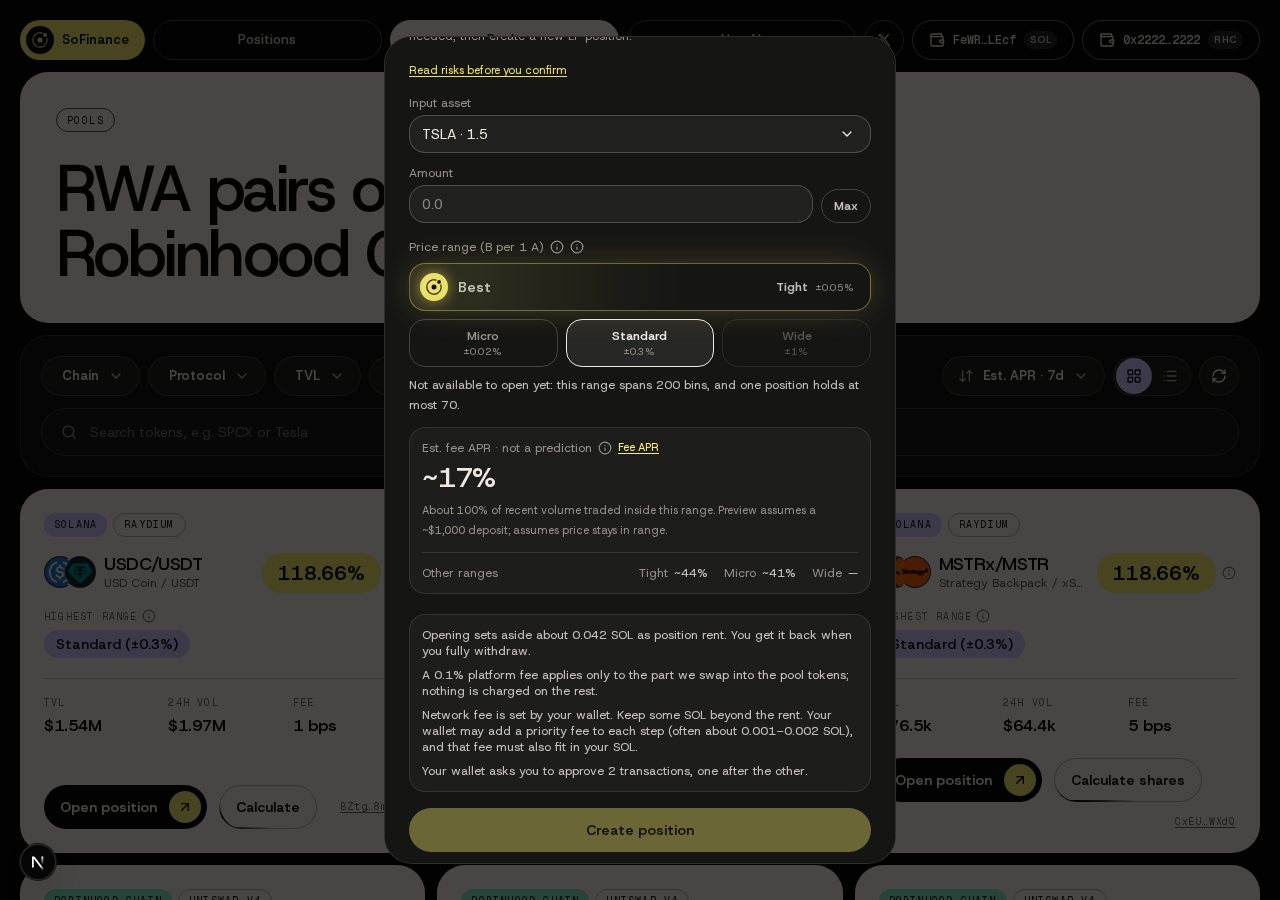
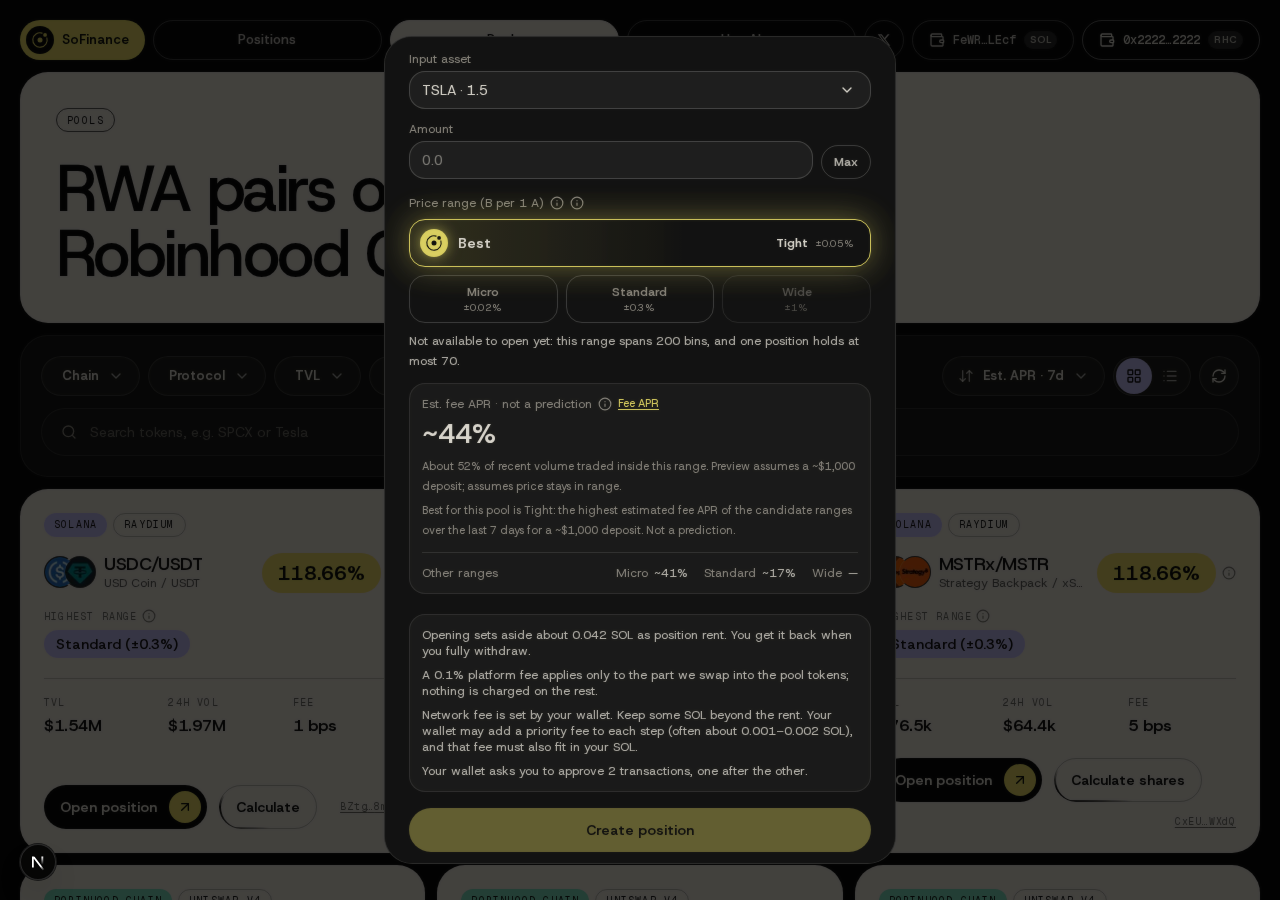
fix: open the Meteora dialog with Best selected
Default the registry form to the same Best range the picker ranks,
so Tight is selected here and the headline matches (~44%). If Best
is over the 70-bin cap or there is no APR, fall back to the first
enabled preset.

diff --git a/src/components/unified-pools/registry-open-modal.test.tsx b/src/components/unified-pools/registry-open-modal.test.tsx
@@ -14,7 +14,7 @@ const mocks = vi.hoisted(() => ({ runSteps: vi.fn(async () => null), tx: {} as R
 vi.mock("../wallet-connection", () => ({ useWalletConnection: () => ({ address: mocks.connected ? WALLET : undefined, connected: mocks.connected, connect: vi.fn(), signTransaction: vi.fn(), signAndSendTransaction: vi.fn() }) }));
 vi.mock("../transactions/use-tx-pipeline", () => ({ useTxPipeline: () => ({ status: "idle", locked: false, closeLocked: false, runSteps: mocks.runSteps, retry: vi.fn(), interrupted: null, dismissInterrupted: vi.fn(), ...mocks.tx }) }));
 
-import { APR_UNAVAILABLE, NO_RANGE_FITS_COPY, openInputs, presetOptions, RegistryOpenModal, NETWORK_FEE_COPY, SOL_REFUSED_COPY } from "./registry-open-modal";
+import { APR_UNAVAILABLE, NO_RANGE_FITS_COPY, openInputs, preferredOpenPresetId, presetOptions, RegistryOpenModal, NETWORK_FEE_COPY, SOL_REFUSED_COPY } from "./registry-open-modal";
 
 const descriptor = dexDescriptors.descriptorFor("meteora-dlmm")!;
 const pool = { key: "solana:met1", poolAddress: "met1", chain: "solana", protocol: "meteora-dlmm", pairLabel: "TSLAx/TSLA", symbolA: "TSLAx", symbolB: "TSLA",
@@ -50,6 +50,31 @@ describe("presetOptions / openInputs", () => {
   it("never offers native SOL as an input", () => {
     const tokens = openInputs({ ...pool, mintB: NATIVE_SOL_MINT, symbolB: "SOL" }, descriptor, { a: 8, b: 9 });
     expect(tokens.map((item) => item.id)).toEqual(["mintA", USDC_MINT]);
+  });
+});
+
+const allRanges = [
+  { id: "micro" as const, lowerUnit: -2, upperUnit: 1, units: 4, priceLower: 0.99, priceUpper: 1.01 },
+  { id: "tight" as const, lowerUnit: -6, upperUnit: 5, units: 12, priceLower: 0.97, priceUpper: 1.03 },
+  { id: "standard" as const, lowerUnit: -30, upperUnit: 29, units: 60, priceLower: 0.9, priceUpper: 1.1 },
+  { id: "wide" as const, lowerUnit: -100, upperUnit: 99, units: 200, priceLower: 0.5, priceUpper: 1.5 },
+];
+const RANKED_TICKS = { micro: [-20, 20], tight: [-60, 60], standard: [-300, 300], wide: [-1000, 1000] } as const;
+const rankedApr = (aprs: { micro: number | null; tight: number | null; standard: number | null; wide: number | null }): PoolRangeAprPayload =>
+  ({ pool: { tickSpacing: 10 }, sample: { degraded: false }, presets: (["micro", "tight", "standard", "wide"] as const).map((id) => ({
+    id, tickLower: RANKED_TICKS[id][0], tickUpper: RANKED_TICKS[id][1],
+    estimate: aprs[id] === null ? { status: "unavailable", reason: "no-volume" } : { status: "ok", aprPct: aprs[id], inRangeVolumePct: 50, feesPerDayUsd: 1 },
+  })) }) as unknown as PoolRangeAprPayload;
+
+describe("preferredOpenPresetId", () => {
+  const options = presetOptions(allRanges, descriptor);
+  it("selects Best when that range is available to open", () => {
+    expect(preferredOpenPresetId(options, rankedApr({ micro: 41, tight: 44, standard: 17, wide: 5 }))).toBe("tight");
+  });
+  it("falls back to the first available preset when Best is over the cap or there is no APR", () => {
+    expect(preferredOpenPresetId(options, null)).toBe("micro");
+    expect(preferredOpenPresetId(options, new Error("Pool volume unavailable"))).toBe("micro");
+    expect(preferredOpenPresetId(options, rankedApr({ micro: null, tight: null, standard: null, wide: 99 }))).toBe("micro");
   });
 });
 
@@ -104,6 +129,31 @@ describe("RegistryOpenModal", () => {
     const [first] = mocks.runSteps.mock.calls[0] as unknown as [{ request: unknown; context: unknown }];
     expect(first.request).toEqual({ poolId: "met1", range: { kind: "preset", presetId: "standard" }, input: { token: USDC_MINT, amountRaw: "1000000" }, slippageBps: 50 });
     expect(first.context).toEqual({ step: 1, priorSignatures: [] });
+  });
+
+  const pressedIds = () => [...container.querySelectorAll("[aria-label='Price range presets'] button[aria-pressed='true']")]
+    .map((button) => button.getAttribute("data-testid"));
+
+  it("opens with Best selected when that range is available, and the headline matches it", async () => {
+    await render({
+      ranges: { ...ranges, presets: allRanges },
+      apr: rankedApr({ micro: 41, tight: 44, standard: 17, wide: 5 }),
+    });
+    expect(pressedIds()).toEqual(["preset-best"]);
+    expect(container.querySelector("[data-testid=best-resolved]")!.textContent).toBe("Tight");
+    expect(container.querySelector("[data-testid=range-apr-headline]")!.textContent).toBe("~44%");
+    expect(container.querySelector("[data-testid=preset-standard]")!.getAttribute("aria-pressed")).toBe("false");
+  });
+
+  it("falls back to the first available preset when Best is disabled or there is no APR", async () => {
+    for (const props of [
+      { apr: new Error("Pool volume unavailable") as Error },
+      { apr: rankedApr({ micro: null, tight: null, standard: null, wide: 99 }) },
+    ]) {
+      await render(props);
+      expect(pressedIds()).toEqual(["preset-micro"]);
+      expect(container.querySelector("[data-testid=preset-best]")).toBeNull();
+    }
   });
 
   it("when every preset exceeds the per-position cap, says no range of this pool fits one position", async () => {

diff --git a/src/components/unified-pools/registry-open-modal.tsx b/src/components/unified-pools/registry-open-modal.tsx
@@ -19,6 +19,8 @@ import { depositTooSmallMessage, dexTxAdapter, OPEN_RANGES_UNAVAILABLE, openSolN
 import { createJupiterRelayStore } from "@/lib/jupiter/browser-relay";
 import { BALANCES_REFRESH_EVENT } from "@/lib/tx-pipeline";
 import { formatAprPct } from "@/lib/range-apr/format";
+import { rangeAprPayload } from "@/lib/range-apr/display-policy";
+import { pickHighestAprPreset } from "@/lib/range-apr/preset-list";
 import type { RangeAprPresetId, PoolRangeAprPayload } from "@/lib/range-apr/types";
 import type { UnifiedPool } from "@/lib/unified-pools/model";
 import type { TokenRef } from "@/lib/unified-positions/model";
@@ -69,6 +71,24 @@ export function presetOptions(presets: readonly OpenRangePreset[], descriptor: P
     return { id: preset.id, units: preset.units, priceLower: preset.priceLower, priceUpper: preset.priceUpper, available,
       reason: available ? null : RANGE_TOO_WIDE_COPY(preset.units, max!, descriptor.meta.rangeUnit), apr: presetApr(preset, apr) };
   });
+}
+
+/**
+ * Initial Create-position range: Best among enabled presets (same ranking as RangePresetPicker),
+ * otherwise the first enabled preset. A Best that is over the venue cap is ignored.
+ */
+export function preferredOpenPresetId(
+  presets: readonly PresetOption[],
+  apr: PoolRangeAprPayload | Error | null,
+): RangeAprPresetId | "" {
+  const available = presets.filter((item) => item.available);
+  if (!available.length) return "";
+  const first = available[0]!.id;
+  if (!apr || apr instanceof Error || apr.sample?.degraded) return first;
+  const blocked = new Set(presets.filter((item) => !item.available).map((item) => item.id));
+  const priced = apr.model?.bins ? rangeAprPayload(apr, null) : apr;
+  const winner = pickHighestAprPreset(priced.presets.filter((item) => !blocked.has(item.id)));
+  return winner && available.some((item) => item.id === winner.id) ? winner.id : first;
 }
 
 /** Tokens the open accepts: the pool's two plus the descriptor's extra inputs, never native SOL. */
@@ -140,7 +160,10 @@ export function RegistryOpenModal({ pool, descriptor, ranges, apr = null, onClos
   const [presetId, setPresetId] = useState<RangeAprPresetId | "">("");
   const [amount, setAmount] = useState("");
   const token = tokens.find((item) => item.id === tokenId) ?? tokens[0];
-  const preset = presets.find((item) => item.id === presetId && item.available) ?? presets.find((item) => item.available && item.id === "standard") ?? presets.find((item) => item.available);
+  const preferred = useMemo(() => preferredOpenPresetId(presets, apr), [presets, apr]);
+  const preset = presets.find((item) => item.id === presetId && item.available)
+    ?? presets.find((item) => item.id === preferred && item.available)
+    ?? presets.find((item) => item.available);
   const unavailable = useMemo(() => {
     const next: Partial<Record<RangeAprPresetId, string>> = {};
     for (const item of presets) if (!item.available && item.reason) next[item.id] = item.reason;

diff --git a/screenshots/unified-open-position/README.md b/screenshots/unified-open-position/README.md
@@ -29,10 +29,10 @@ Captured 10 Nov 2026, Asia/Taipei.
   `GET https://sofinancelab.xyz/api/pool-range-apr?poolId=8k2c9Kiavx5pbWc2dmzhL7vFp11sLgMcKFfSueq8haAh`
   (Meteora TSLAx/TSLA, `protocol: meteora-dlmm`; read-only). Snapshot
   taken 10 Nov 2026. After the $1,000 preview reprice and fee cap: Best
-  resolves to Tight ~44%; the dialog defaults to Standard, so the
-  headline is ~17%; other ranges Tight ~44%, Micro ~41%, Wide — (this
-  range spans 200 bins; one position holds at most 70). Scrolled so the
-  costs box and the Create position button are visible.
+  (Tight) is the only selected range and the headline is ~44%; other
+  ranges Micro ~41%, Standard ~17%, Wide — (this range spans 200 bins;
+  one position holds at most 70). Scrolled so the costs box and the
+  Create position button are visible.
 
 - `rhc-open-modal-1280.png`, `rhc-open-modal-375.png`: the dialog does
   not call `/api/pool-range-apr`. The APR panel shows “—” and “7-day
